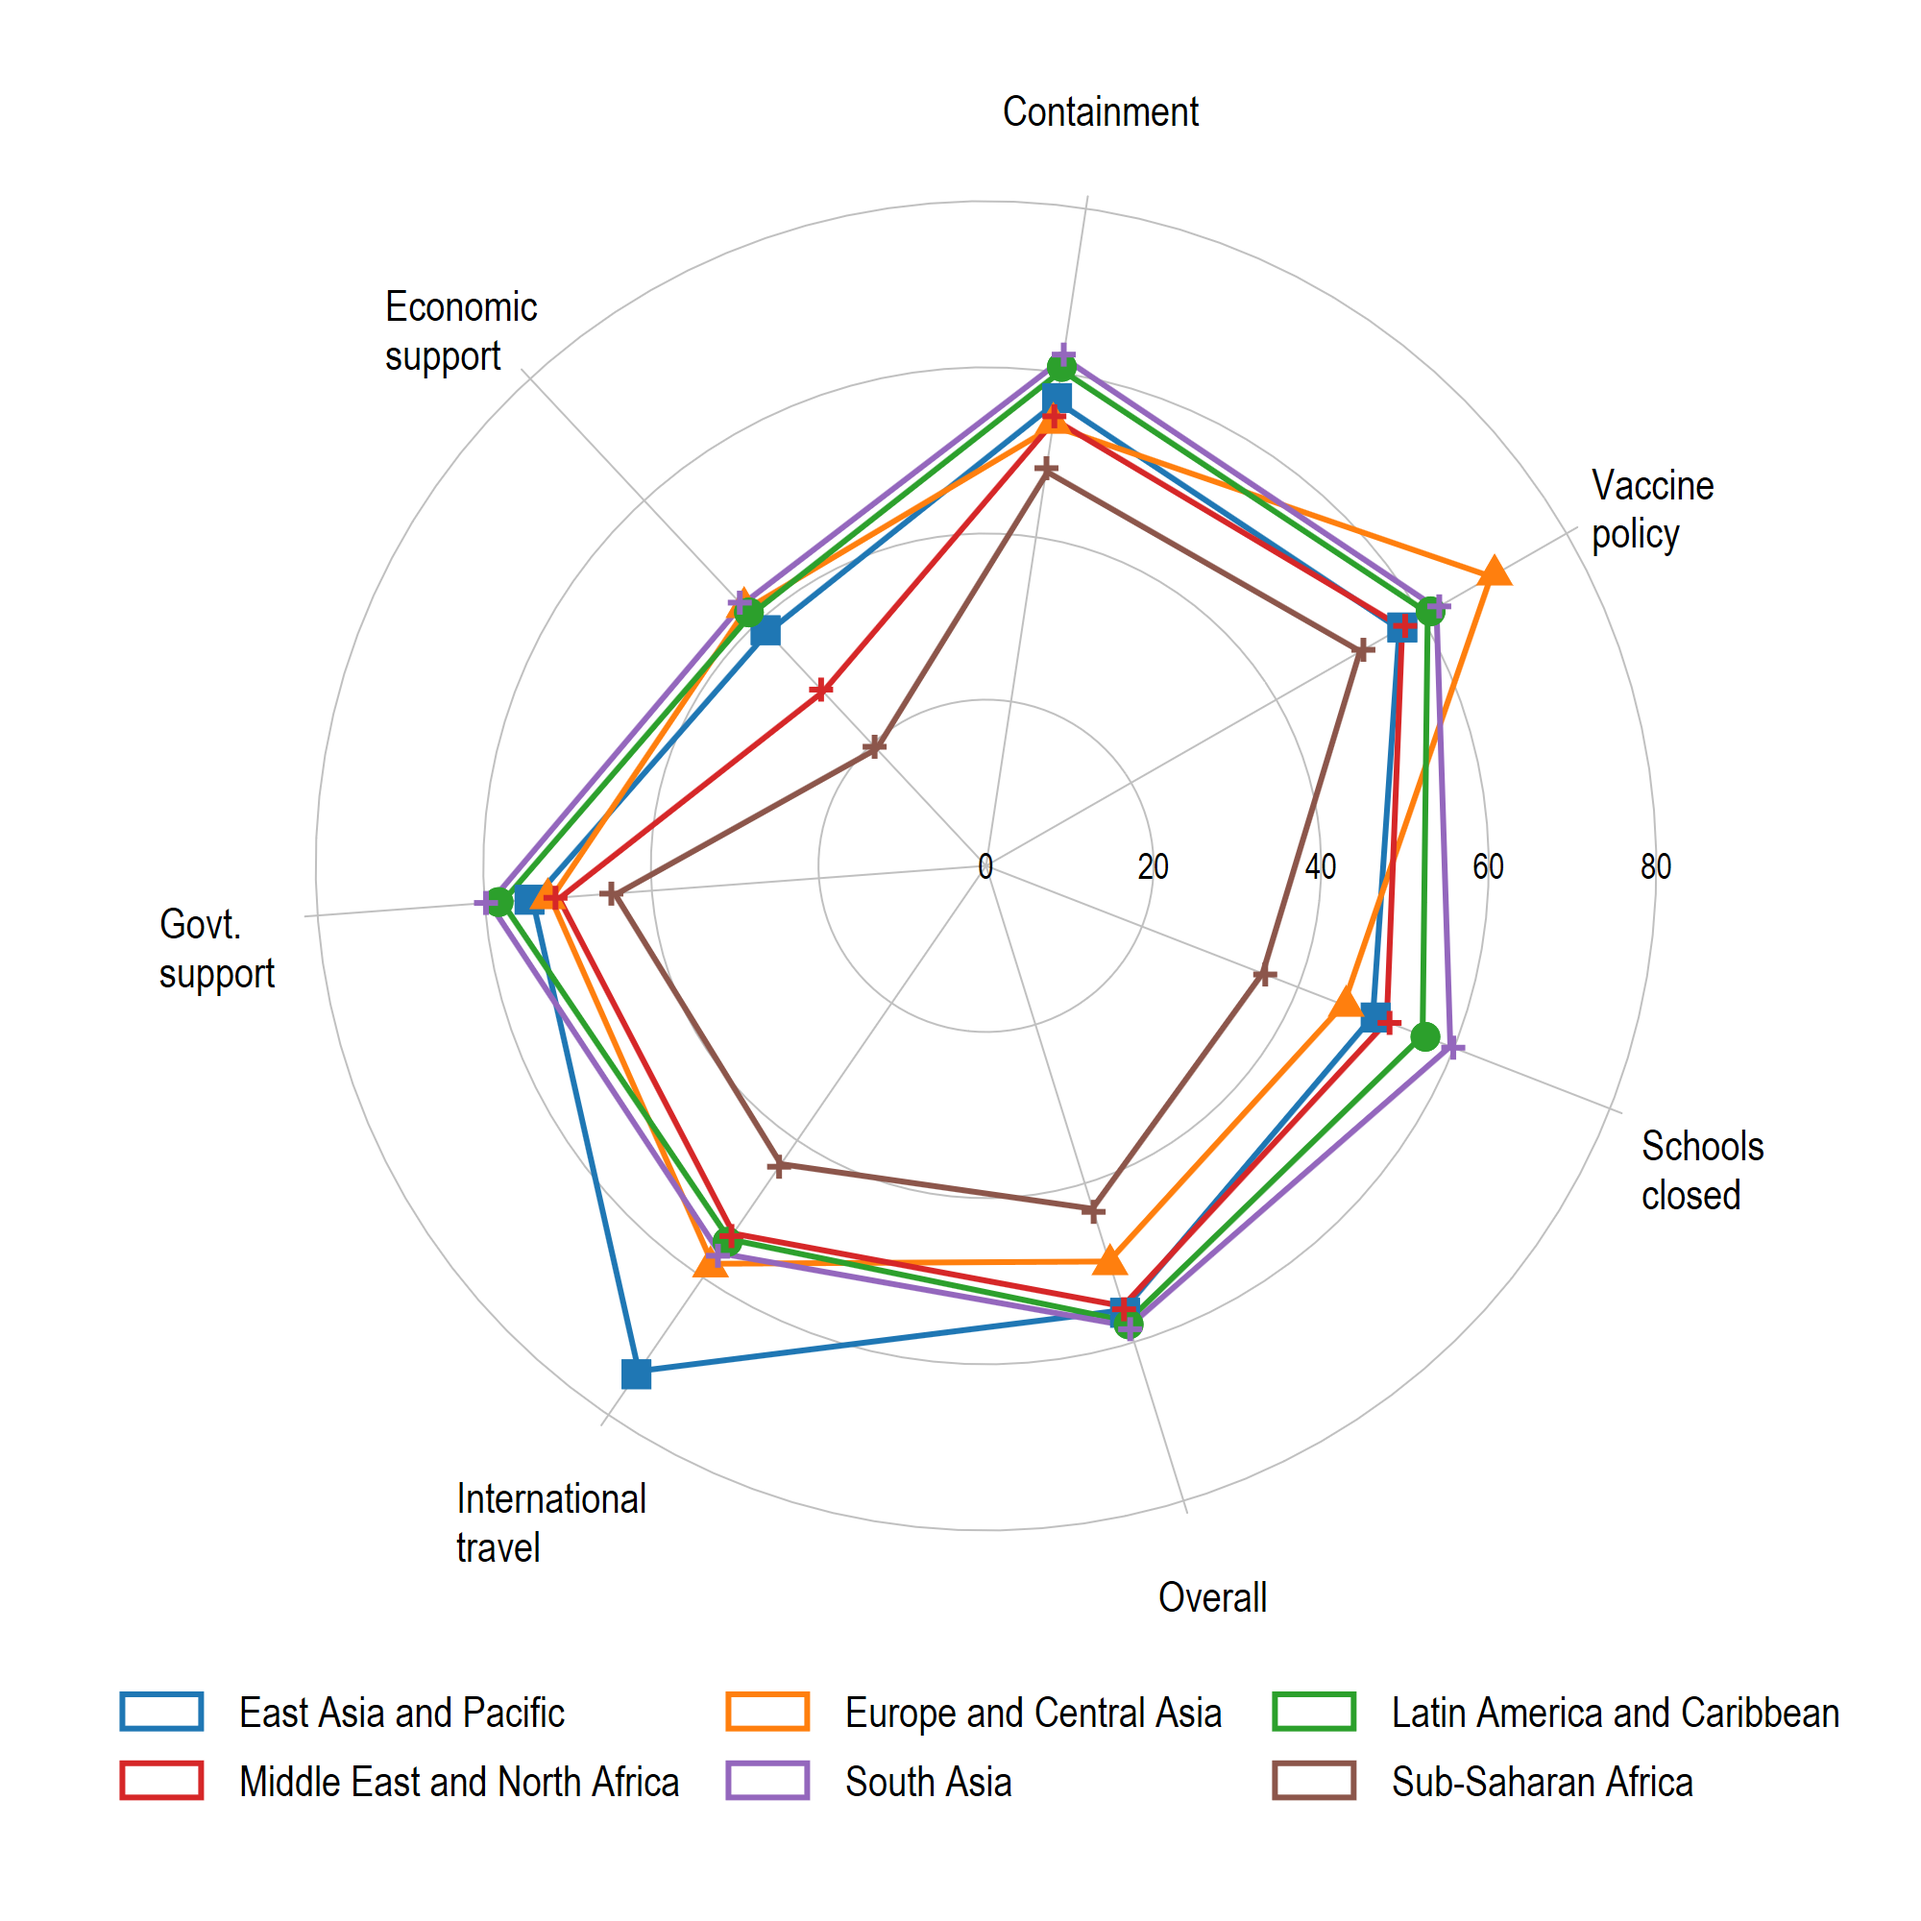
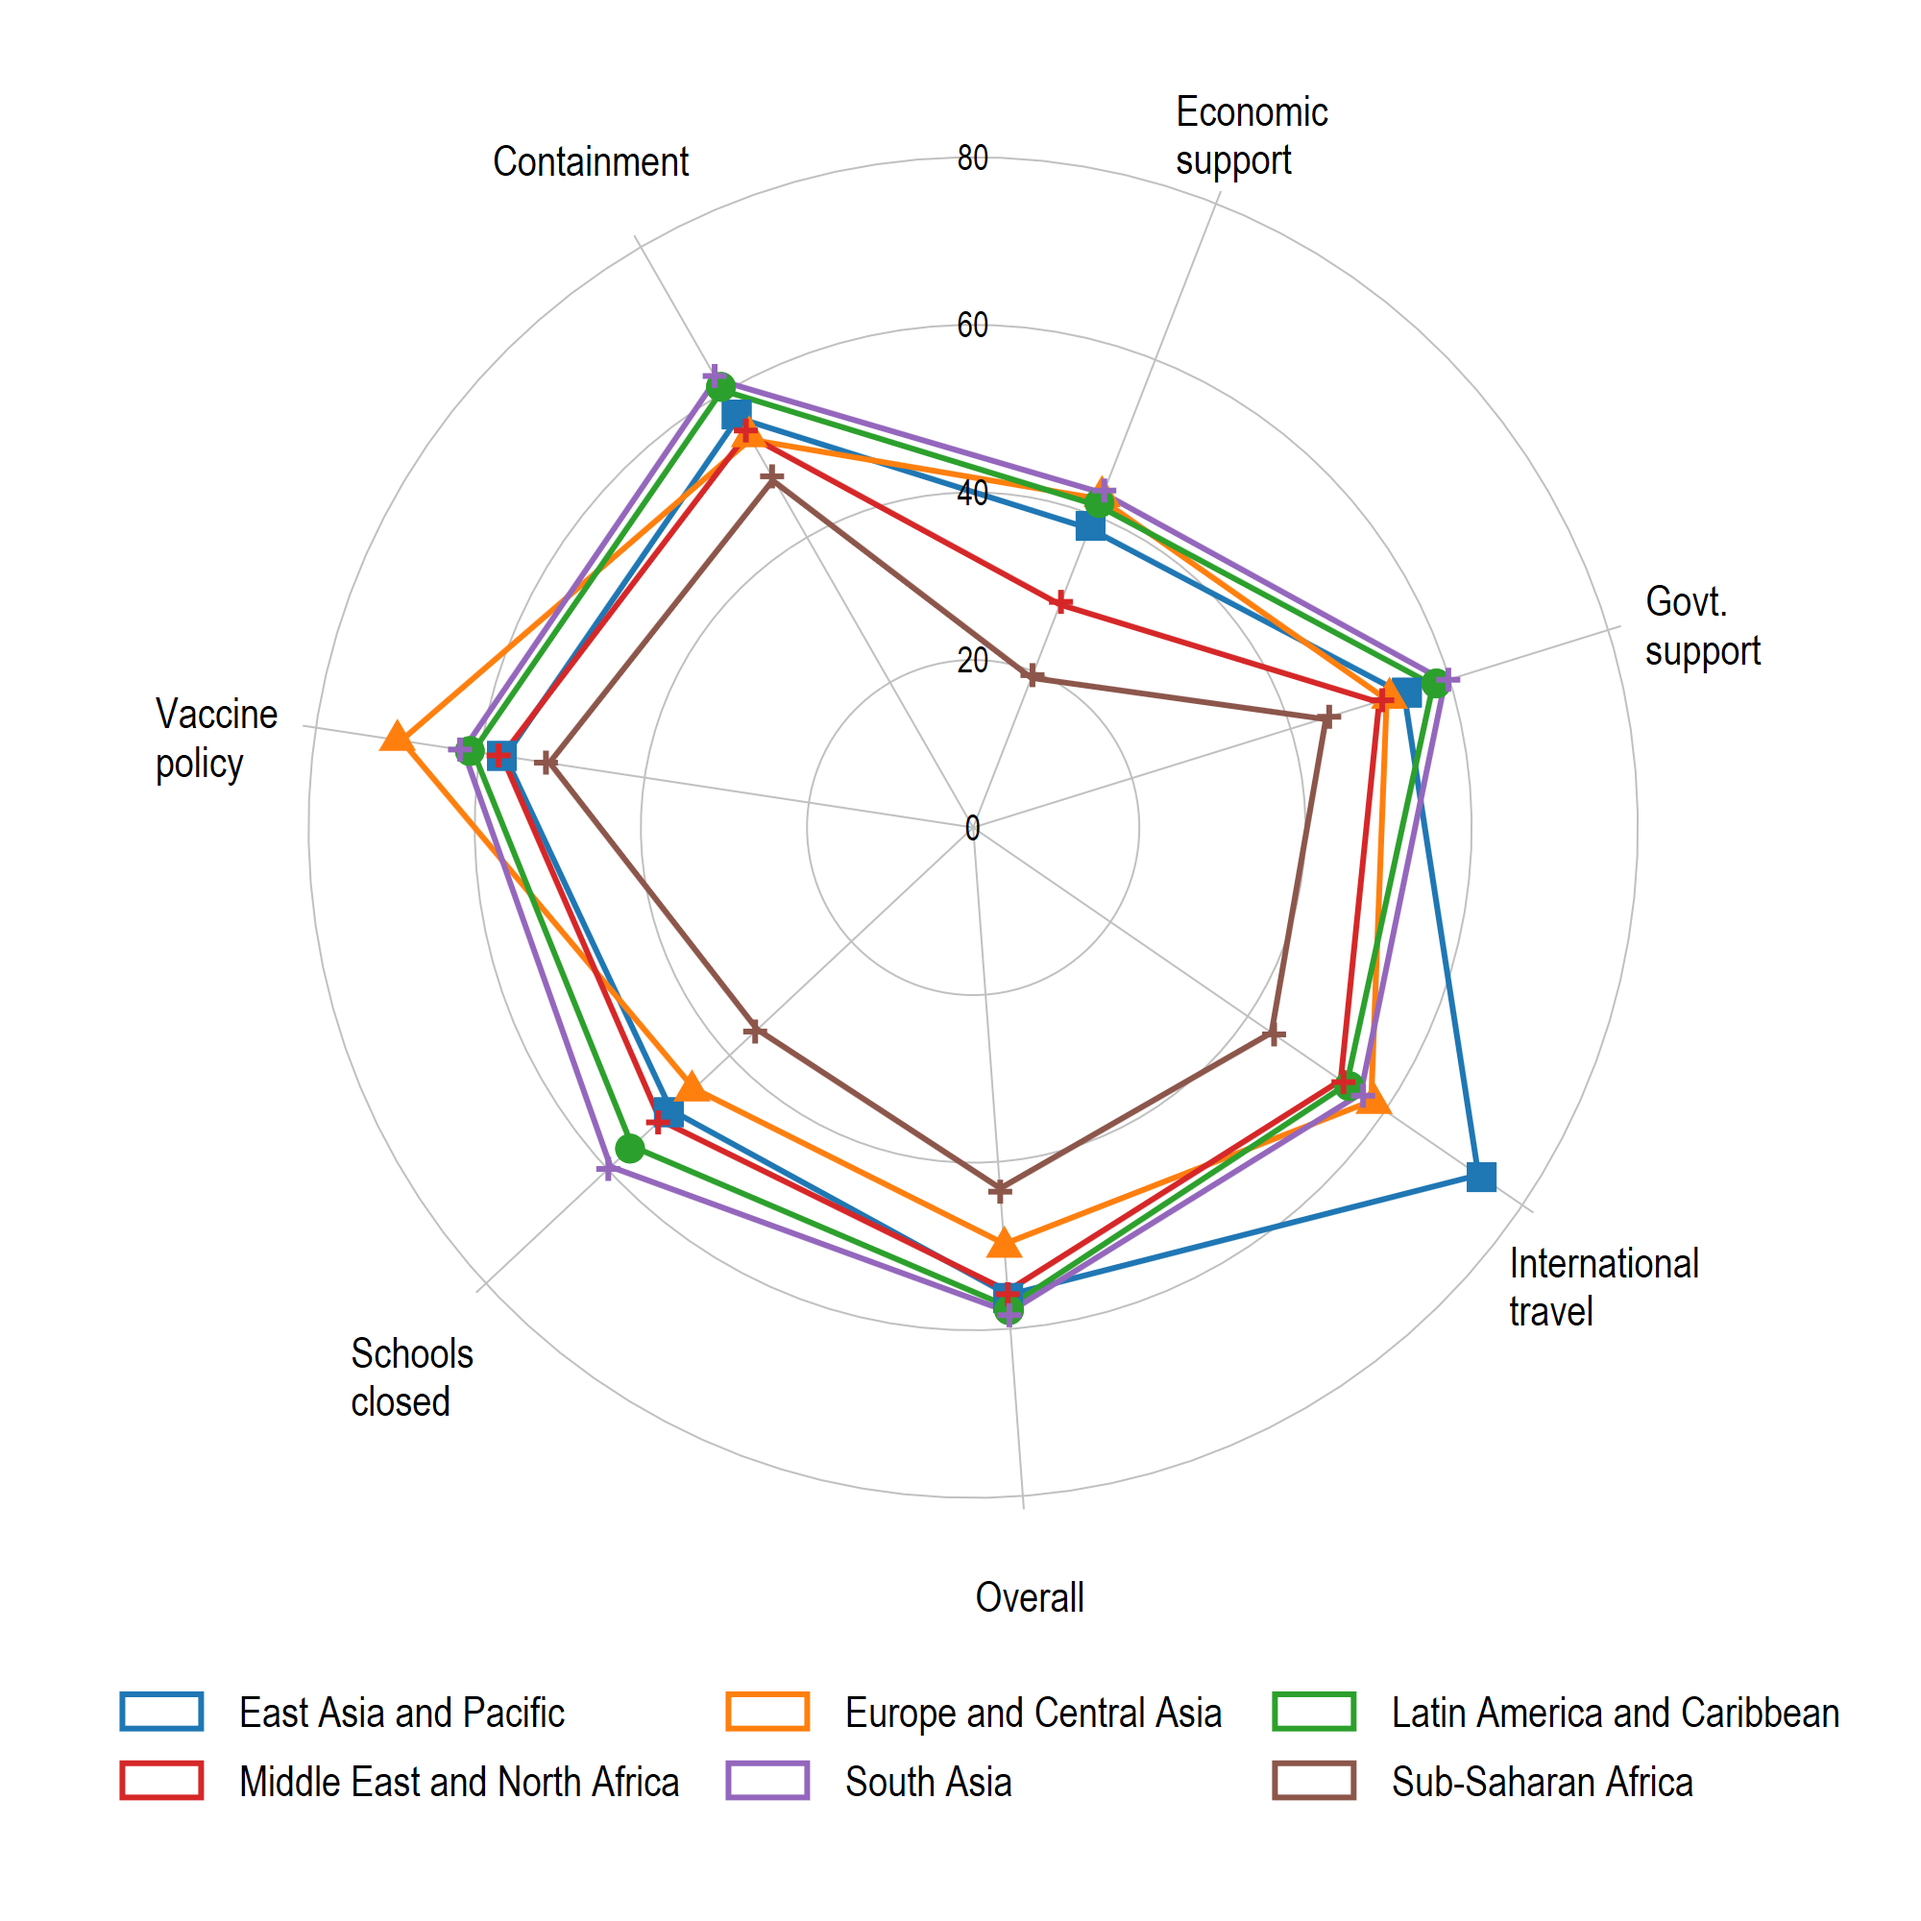
v1.51

diff --git a/README.md b/README.md
@@ -9,8 +9,8 @@
 
 
 
-# spider v1.5
-(13 Oct 2024)
+# spider v1.51
+(09 Nov 2024)
 
 This package provides the ability to draw spiders Stata. It is based on the [Spider plots](https://medium.com/the-stata-guide/stata-graphs-spider-plots-613808b51f73) guide on Medium
 
@@ -25,7 +25,7 @@ The SSC version (**v1.5**):
 ssc install spider, replace
 ```
 
-Or it can be installed from GitHub (**v1.5**):
+Or it can be installed from GitHub (**v1.51**):
 
 ```stata
 net install spider, from("https://raw.githubusercontent.com/asjadnaqvi/stata-spider/main/installation/") replace
@@ -402,6 +402,14 @@ Please open an [issue](https://github.com/asjadnaqvi/stata-spider/issues) to rep
 
 
 ## Change log
+
+**v1.51 (09 Nov 2024)**
+A minor release with some major changes
+- Starting point is now the 12 o' clock (North) position. This has been requested countless times. One can still rotate by 90 degrees to start from the old (Stata) default 3 o' clock (East) position.
+- Draw order is now clockwise. Again requested a lot. Users can change the direction to counter-clockwise by using the new option `flip`.
+- Labels are now on the starting north-facing line.
+- Fix a bug where non-integer values under certain conditions were causing the program to crash.
+- Minor Code cleanups.
 
 **v1.5 (13 Oct 2024)**
 - Now requires dependency [graphfunctions](https://github.com/asjadnaqvi/stata-graphfunctions) (check versions and update to the latest!). 
